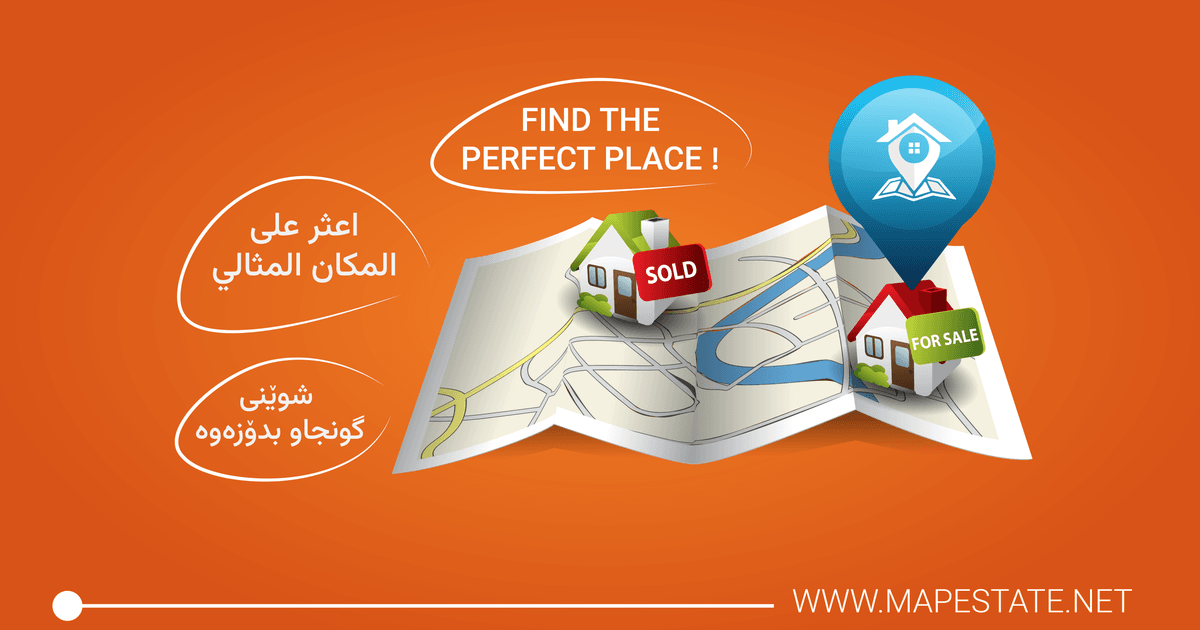
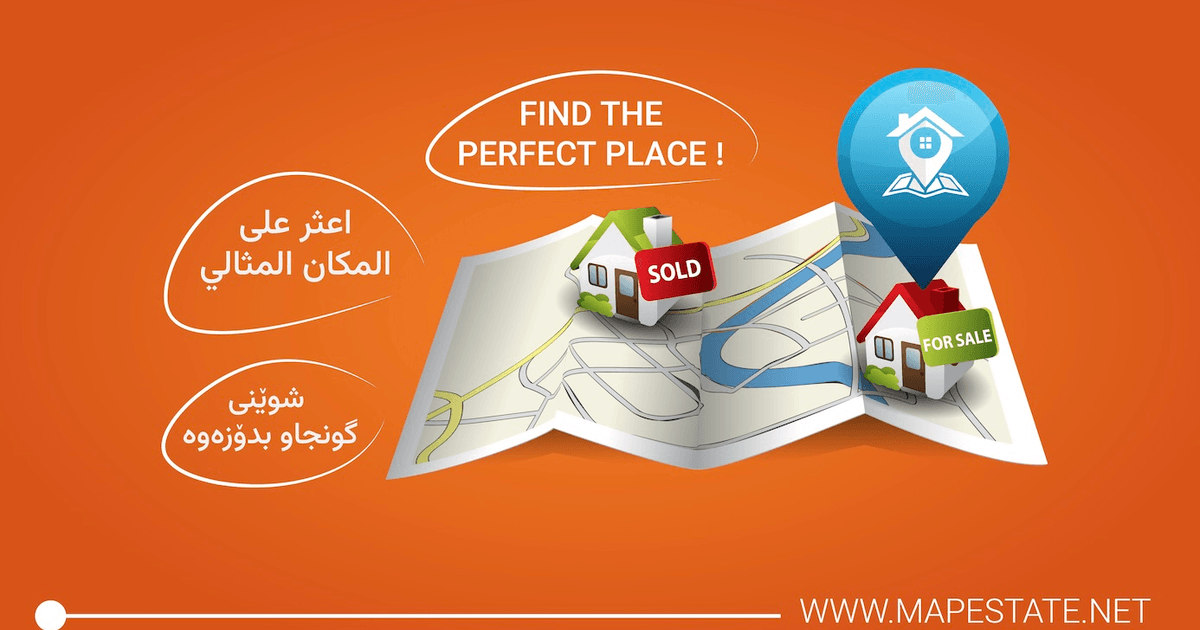
Update social media preview image and conversion script
Add a new script to convert and optimize a social media preview image using sharp, replacing the old image and updating the asset path.

Replit-Commit-Author: Agent
Replit-Commit-Session-Id: cca5daf1-8025-4e82-a036-b7f9ceb26168
Replit-Commit-Checkpoint-Type: full_checkpoint
Replit-Commit-Screenshot-Url: https://storage.googleapis.com/screenshot-production-us-central1/934ce076-e330-4549-ba33-90afebc84fd6/cca5daf1-8025-4e82-a036-b7f9ceb26168/OezzI6n

diff --git a/scripts/convert-social-image.js b/scripts/convert-social-image.js
@@ -1,0 +1,44 @@
+import sharp from 'sharp';
+import path from 'path';
+import fs from 'fs';
+import { fileURLToPath } from 'url';
+
+const __filename = fileURLToPath(import.meta.url);
+const __dirname = path.dirname(__filename);
+
+const inputPath = path.join(__dirname, '../attached_assets/cover_1760902394879.jpg');
+const outputPath = path.join(__dirname, '../client/public/mapestate-social-preview.png');
+
+async function convertImage() {
+  try {
+    console.log('🖼  Converting and optimizing new social preview image...');
+    console.log(`📁 Input: ${inputPath}`);
+    console.log(`📁 Output: ${outputPath}`);
+    
+    const inputStats = fs.statSync(inputPath);
+    console.log(`📊 Original size: ${(inputStats.size / 1024).toFixed(2)} KB`);
+    
+    await sharp(inputPath)
+      .resize(1200, 630, {
+        fit: 'cover',
+        position: 'center'
+      })
+      .png({
+        quality: 90,
+        compressionLevel: 9
+      })
+      .toFile(outputPath);
+    
+    const outputStats = fs.statSync(outputPath);
+    console.log(`📊 Final size: ${(outputStats.size / 1024).toFixed(2)} KB`);
+    console.log(`✅ Image converted and optimized successfully!`);
+    console.log(`🎨 Format: JPG → PNG`);
+    console.log(`📐 Dimensions: 1200x630 (optimized for social media)`);
+    
+  } catch (error) {
+    console.error('❌ Error converting image:', error);
+    process.exit(1);
+  }
+}
+
+convertImage();
